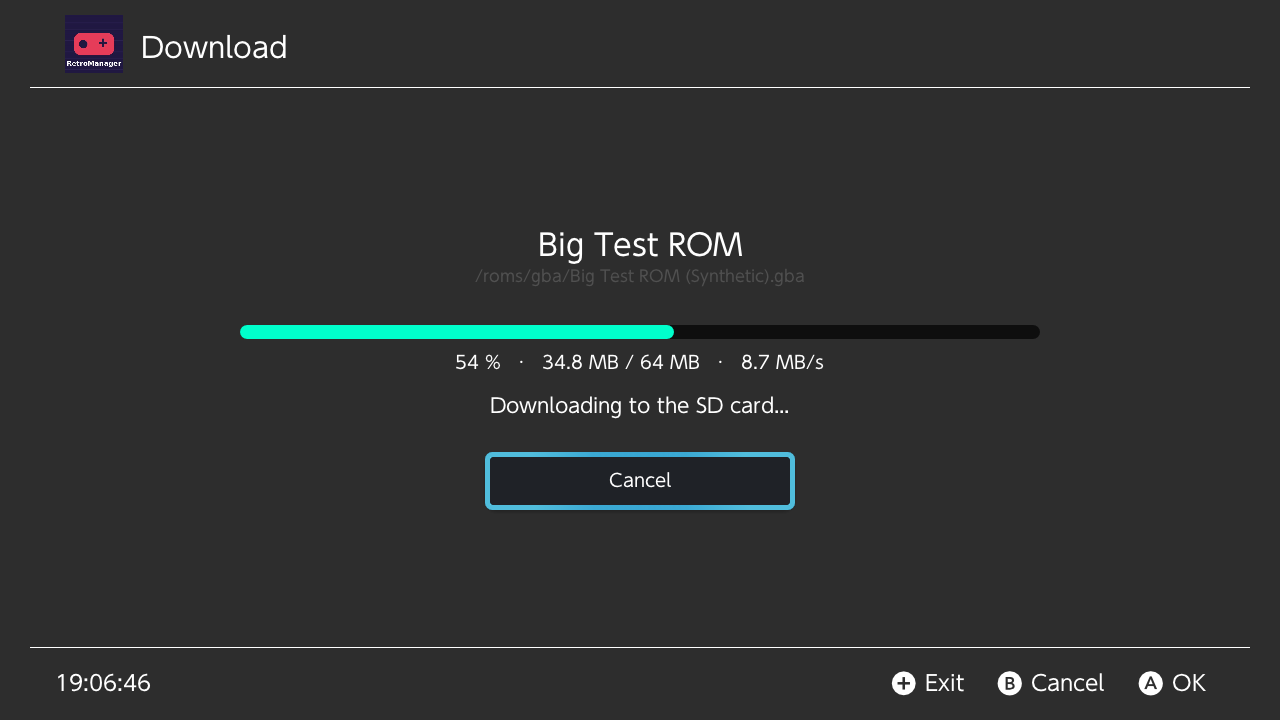
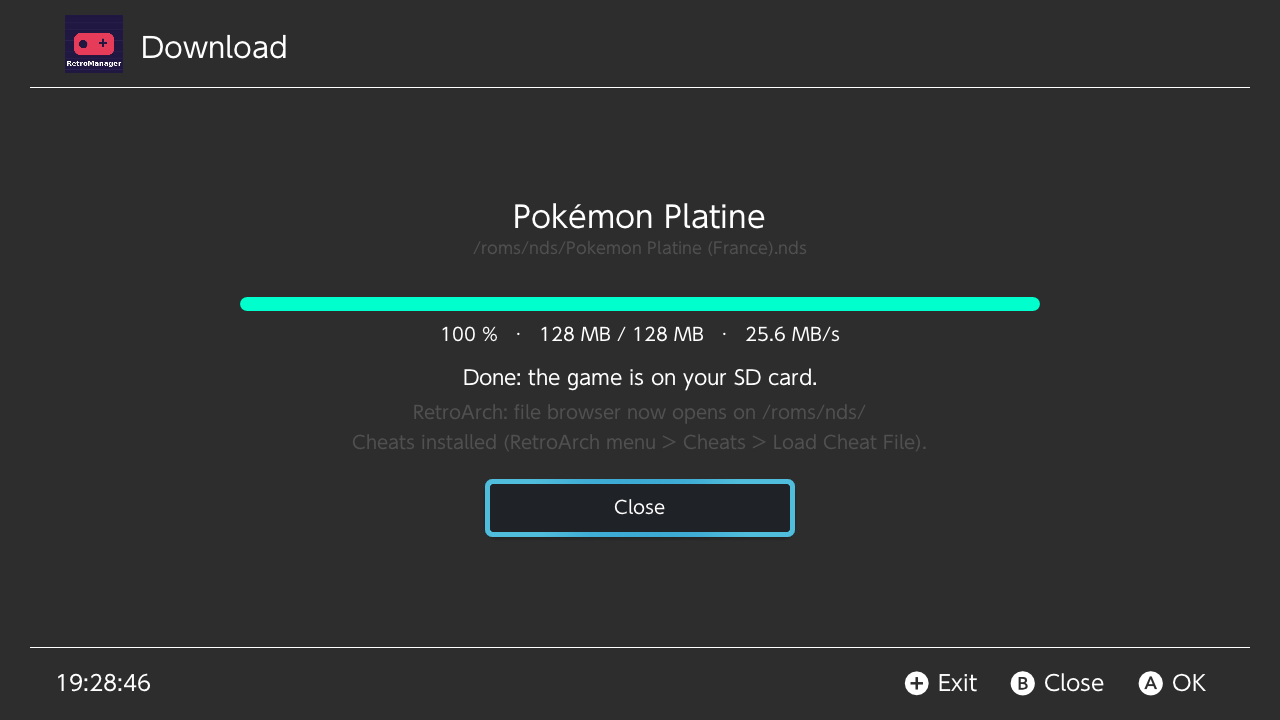
retromanager: document the Phase 4 post-install pipeline
Claude-Session: https://claude.ai/code/session_01QrhfqN1vSePJuW5szmThmT

diff --git a/retromanager/ARCHITECTURE.md b/retromanager/ARCHITECTURE.md
@@ -31,11 +31,11 @@ contredit, on modifie d'abord ce document.
 ```mermaid
 graph TD
     UI["ui/ : Activities & vues Borealis"]
-    SVC["services/ : ShopService ✅, DownloadService ✅, ConfigManager ✅, EmulatorConfigurator, CheatManager, CloudSync, ForwarderBuilder, Scraper"]
-    PARSE["parsers/ : RepoIndexParser ✅, ConfigParser ✅, CfgParser, IniParser, ChtParser"]
+    SVC["services/ : ShopService ✅, DownloadService ✅, ConfigManager ✅, EmulatorConfigurator ✅, CheatManager ✅, EmulatorConfigurator, CheatManager, CloudSync, ForwarderBuilder, Scraper"]
+    PARSE["parsers/ : RepoIndexParser ✅, ConfigParser ✅, CfgDocument ✅, IniParser, ChtParser"]
     FS["fs/ : RomStore ✅, SaveStore, BiosStore"]
     NET["network/ : IRemoteSource ✅, MockRemoteSource ✅, FtpClient ✅, SourceFactory ✅, SmbClient, HttpClient"]
-    PLAT["platform/ : IFileSystem, VirtualPath, SdLayout, Platform"]
+    PLAT["platform/ : IFileSystem, ISystem, VirtualPath, SdLayout, Platform"]
     CORE["core/ : Result, AppContext, ITaskRunner, WorkerThread, EventBus, Cancellation, Crc32, Url, Format"]
     MODELS["models/ : GameEntry, RepoIndex, Systems, AppConfig"]
 
@@ -58,8 +58,8 @@ graph TD
 |---|---|---|---|
 | `core/` | Types de base (`Result`, `Status`), composition (`AppContext`), exécution (`ITaskRunner`, `WorkerThread`, `CancellationToken`), `EventBus`, utilitaires purs (`Url`, `Format`, `Crc32`) | STL | inclure Borealis ou libnx |
 | `models/` | Données pures partagées par toutes les couches (`GameEntry`, `RepoIndex`, `SystemSection`, `AppConfig`) et catalogue des systèmes | `core` | contenir du comportement autre que des accesseurs |
-| `platform/` | Abstractions système + implémentations par plateforme | `core` | contenir de la logique métier |
-| `parsers/` | Fonctions **pures** texte ⇄ structures (`.cfg`, `.ini`, JSON, `.cht`) | `core`, nlohmann/json | faire des E/S : ils reçoivent et rendent des chaînes |
+| `platform/` | Abstractions système (`IFileSystem`, `ISystem` : anti-veille) + implémentations par plateforme | `core` | contenir de la logique métier |
+| `parsers/` | Fonctions **pures** texte ⇄ structures : index JSON, `config.json`, `CfgDocument` (`.cfg` / `.cht` RetroArch, édition sans perte) | `core`, nlohmann/json | faire des E/S : ils reçoivent et rendent des chaînes |
 | `fs/` | Opérations SD typées : `RomStore` (destination, espace libre, installation atomique vérifiée par CRC) | `platform`, `models`, `core` | parler au réseau |
 | `network/` | Déplace des octets derrière `IRemoteSource` (index en mémoire, ROMs en flux vers un `ChunkSink`) | `core` (+ libcurl pour `FtpClient`) | parser un index, écrire sur la SD |
 | `services/` | Cas d'usage : orchestrent parsers, fs et network | tout ce qui précède | inclure Borealis |
@@ -203,9 +203,26 @@ sequenceDiagram
     end
     UI->>D: cancel(id) sur B → token → curl abandonne, .tmp supprimé
     D->>F: commit() : CRC vérifié puis renommage atomique
-    D-->>B: Finished{ok | Cancelled | NetworkError | IntegrityError…}
+    D-->>B: Configuring
+    D->>D: étapes post-installation (EmulatorConfigurator, CheatManager)
+    D-->>B: Finished{résultat ROM + résultat de chaque étape}
     B-->>UI: handlers exécutés sur le thread principal
 ```
+
+Pendant tout le travail (transfert et étapes), un `AwakeLock` tient la
+console éveillée (`ISystem::setKeepAwake` : `appletSetMediaPlaybackState`
+sur Switch, rien sur desktop). Il est relâché sur tous les chemins de sortie
+(succès, erreur, annulation, refus faute d'espace).
+
+**Étapes post-installation** (`services/PostInstallStep.hpp`) :
+`DownloadService` exécute, dans l'ordre, les `IPostInstallStep` enregistrés
+dans `main.cpp`, une fois la ROM validée sur la carte. Une étape en échec ne
+défait jamais l'installation : son erreur est rapportée à côté.
+
+| Étape | Effet |
+|---|---|
+| `EmulatorConfigurator` | `rgui_browser_directory` de `retroarch.cfg` pointe sur le dossier de la ROM (`/roms/nds/`). Édition via `CfgDocument` : seule la valeur change, tout le reste du fichier est conservé octet pour octet. Copie `retroarch.cfg.rmbak` avant la première modification ; fichier créé s'il n'existe pas ; rien si RetroArch n'est pas installé. |
+| `CheatManager` | Si l'entrée a un `cheat_url` : télécharge le `.cht` (1 Mio max, validé comme fichier de triche RetroArch) dans `<cheat_database_path>/<système libretro>/<nom de la ROM>.cht`. |
 
 La mémoire consommée ne dépend pas de la taille de la ROM : tampon
 d'écriture de 1 Mio + tampon de réception curl de 256 Kio. Le test
@@ -296,4 +313,5 @@ Nommage : `IXxx` pour une interface, un fichier par classe, espace de noms
 | 0–1 | Squelette, `IFileSystem` avec mocks, fausse SD, écran d'accueil, CI | ✅ |
 | 2 | Boutique : `GameEntry`, `RepoIndexParser`, `IRemoteSource` (mock + FTP), `ShopService`, liste Borealis | ✅ |
 | 3 | `config.json` + vrai `FtpClient`, téléchargement en flux, `RomStore` (espace, CRC, atomique), `EventBus`, écran de progression annulable, FTPS sans vérification | ✅ |
-| 4+ | Marqueur « installé » et file de téléchargements, SMB/HTTP, scraping, configurateur RetroArch, cheats, cloud saves, forwarders | — |
+| 4 | Anti-veille (`ISystem`), `CfgDocument`, `EmulatorConfigurator`, `CheatManager` (`cheat_url`), étapes post-installation, tag « Installé » | ✅ |
+| 5+ | File de téléchargements, sources HTTP/SMB, scraping, overclock sys-clk, cloud saves, forwarders | — |

diff --git a/retromanager/docs/INDEX_FORMAT.md b/retromanager/docs/INDEX_FORMAT.md
@@ -57,6 +57,7 @@ Tout autre champ est ignoré (compatibilité ascendante).
 | `crc32` | 8 chiffres hexadécimaux, **vérifié après téléchargement** (fichier rejeté si différent) | vide |
 | `year` | entier entre 1950 et 2100 | absent |
 | `description` | chaîne | vide |
+| `cheat_url` | chaîne (URL, relative acceptée) d'un fichier de triche RetroArch `.cht`, téléchargé après la ROM | vide |
 | `id` | chaîne unique dans l'index | `<system>/<nom de fichier>` |
 
 ### URLs
@@ -76,6 +77,15 @@ Les identifiants du NAS ne sont envoyés qu'au serveur de l'index (même hôte,
 même port) : une entrée pointant vers un autre serveur est refusée au
 téléchargement. Les ROMs sont installées dans `/roms/<system>/<nom>` ; les
 caractères interdits sur FAT/exFAT (`<>:"|?*`) deviennent `_`.
+
+### Codes de triche
+
+Le `.cht` est installé dans
+`/retroarch/cheats/<système libretro>/<nom de la ROM sans extension>.cht`
+(par exemple `Nintendo - Nintendo DS/Pokemon Platine (France).cht`), ou
+sous le `cheat_database_path` de `retroarch.cfg` s'il est absolu. Il doit
+contenir une ligne `cheats = N`, sinon il est refusé (page d'erreur HTML,
+fichier tronqué…). Au maximum 1 Mio.
 
 ### Identifiants de système
 

diff --git a/retromanager/README.md b/retromanager/README.md
@@ -6,6 +6,10 @@ rétro ». C++17, libnx, [Borealis](https://github.com/xfangfang/borealis).
 ![Boutique (build desktop)](docs/shop-desktop.png)
 ![Téléchargement (build desktop)](docs/download-desktop.png)
 
+Après chaque téléchargement, RetroManager règle le navigateur de fichiers de
+RetroArch sur le dossier du jeu (édition de `retroarch.cfg` qui préserve le
+reste du fichier) et installe ses codes de triche si la boutique en fournit.
+
 L'organisation du code est décrite dans [ARCHITECTURE.md](ARCHITECTURE.md).
 
 ## Prérequis
